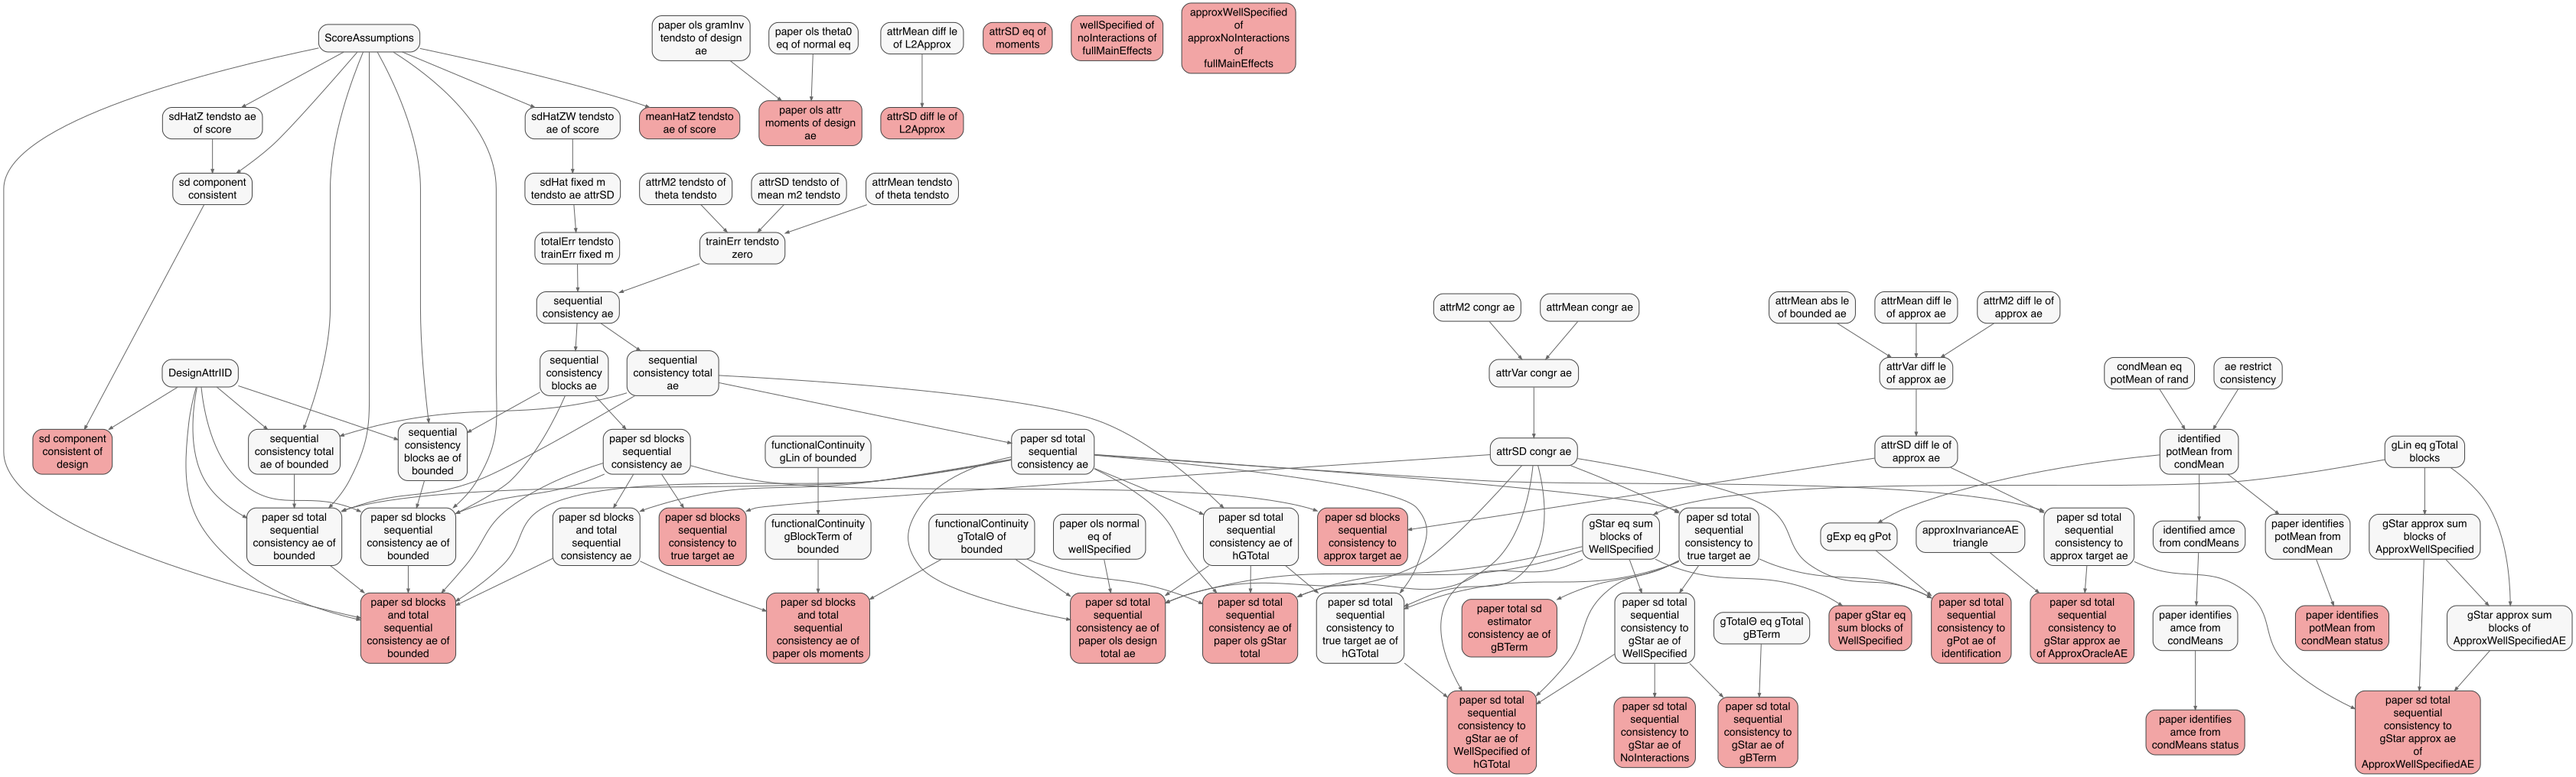
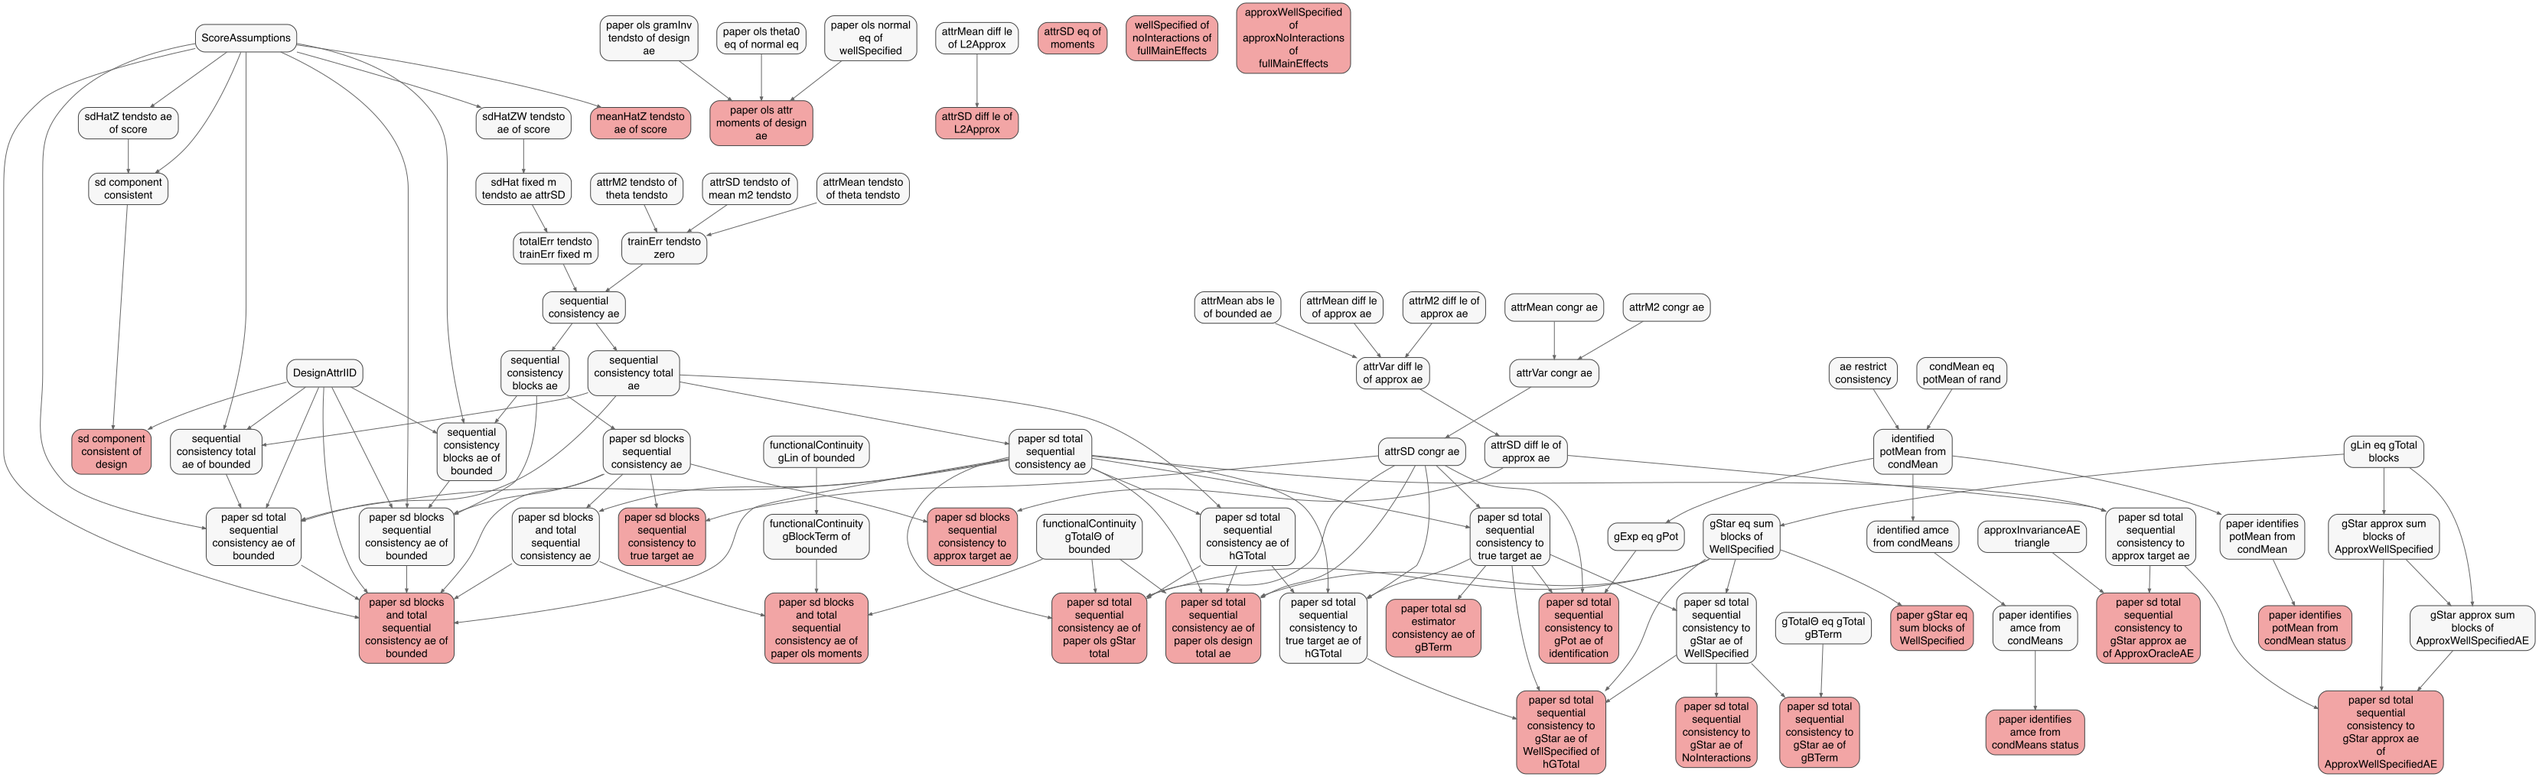
further removal of circular reasoning

diff --git a/readable/PaperOLSConsistency.md b/readable/PaperOLSConsistency.md
@@ -13,24 +13,24 @@ Assumption package:
 - `PaperOLSDesignAssumptions` packages design IID, bounded/measurable features, bounded `gStar`, and equality of design vs target Gram/cross moments. From this bundle:
   - `paper_ols_lln_of_design_ae` derives the LLN statement with limits expressed under the target `ν`.
   - `paper_ols_attr_moments_of_design_ae` combines that LLN with inverse‑Gram stability and identification to yield `OLSMomentAssumptionsOfAttr` a.e.
-- `PaperOLSFullRankAssumptions` and `PaperOLSNormalEqAssumptions` are the explicit full‑rank and normal‑equation premises that will feed the derivation of inverse‑Gram stability and identification (`hInv`/`hId`) from the design.
+- `PaperOLSFullRankAssumptions` is the explicit full‑rank premise that feeds the derivation of inverse‑Gram stability and identification (`hInv`/`hId`) from the design; the normal equations are now derived from well‑specification plus bounded/measurable features.
 - `paper_ols_gramInv_tendsto_of_design_ae` derives inverse‑Gram convergence a.e. from the design bundle plus `PaperOLSFullRankAssumptions`.
-- `paper_ols_theta0_eq_of_normal_eq` derives the identification equation `θ0 = (attrGram)⁻¹ * attrCross` from `PaperOLSNormalEqAssumptions` and full‑rank.
-- `paper_ols_normal_eq_of_wellSpecified` derives `PaperOLSNormalEqAssumptions` from well‑specification plus bounded/measurable paper features, so the normal equation can be a derived premise rather than a standalone assumption.
+- `paper_ols_theta0_eq_of_normal_eq` derives the identification equation `θ0 = (attrGram)⁻¹ * attrCross` from the normal‑equation identity and full‑rank.
+- `paper_ols_normal_eq_of_wellSpecified` derives the normal‑equation identity from well‑specification plus bounded/measurable paper features.
 - `paper_ols_attr_moments_of_lln_fullrank_ae` packages Gram/cross LLN, inverse‑Gram stability, and identifiability into the a.e. `OLSMomentAssumptionsOfAttr` statement used by later theorems.
 - In the Gram/cross convergence proofs, empirical means are now routed through `meanHatZ_tendsto_ae_of_score`, keeping the flow explicitly tied to `ScoreAssumptions` rather than standalone IID bundles.
 
 Main results:
 - `theta_tendsto_of_paper_ols_moments_ae` gives almost-everywhere [convergence](jargon_convergence.md) of the OLS coefficient estimates to `theta0`.
 - A non-AE version is provided for deterministic sequences.
-- `theta_tendsto_of_paper_ols_design_ae` derives the same convergence from `PaperOLSDesignAssumptions` plus the full‑rank and normal‑equation conditions (`PaperOLSFullRankAssumptions`, `PaperOLSNormalEqAssumptions`).
+- `theta_tendsto_of_paper_ols_design_ae` derives the same convergence from `PaperOLSDesignAssumptions` plus the full‑rank condition, with normal equations derived from well‑specification.
 - `attrMean_tendsto_of_paper_ols_gStar` / `attrM2_tendsto_of_paper_ols_gStar` combine OLS [convergence](jargon_convergence.md) with functional [continuity](jargon_continuity.md) to produce plug‑in mean/second‑moment convergence for the paper’s score.
 - `attrMean_tendsto_of_paper_ols_moments_ae` / `attrM2_tendsto_of_paper_ols_moments_ae` provide the same [bridge](jargon_bridge.md) a.e. when the OLS moment assumptions hold along sample paths.
-- `attrMean_tendsto_of_paper_ols_design_ae` / `attrM2_tendsto_of_paper_ols_design_ae` are the end‑to‑end a.e. bridges from the design‑side bundle plus full‑rank/normal‑equation conditions to plug‑in moment convergence.
+- `attrMean_tendsto_of_paper_ols_design_ae` / `attrM2_tendsto_of_paper_ols_design_ae` are the end‑to‑end a.e. bridges from the design‑side bundle plus full‑rank (and normal equations derived from well‑specification) to plug‑in moment convergence.
 - `gPaper_eq_gTotalΘ_blocks` identifies the paper score with the block-sum total score (for any `blk`), so the OLS path can feed into the block/total [standard deviation](jargon_standard_deviation.md) chain.
 - `functionalContinuity_gPaper_of_bounded` and `functionalContinuity_gTotalΘ_of_bounded` derive the required functional [continuity](jargon_continuity.md) for the paper score and total block score directly from bounded/measurable features.
 - `functionalContinuity_gBlockTerm_of_bounded` does the same for each block score, using a block-specific feature map and the same bounded/measurable feature hypotheses.
 - `attrMean_tendsto_of_paper_ols_gStar_total` / `attrM2_tendsto_of_paper_ols_gStar_total` and their a.e. counterparts lift the OLS assumptions from `gPaper` to the block-sum total score.
-- `paper_ols_attr_moments_of_lln_fullrank_ae` assembles the a.e. moment package from [LLN](jargon_lln.md)-style and inverse-stability assumptions plus the target human population normal equations.
+- `paper_ols_attr_moments_of_lln_fullrank_ae` assembles the a.e. moment package from [LLN](jargon_lln.md)-style and inverse-stability assumptions plus the target human population normal equations (derived from well‑specification when needed).
 
 This file is the link from [regression](jargon_regression.md) / [OLS](jargon_ols.md) [consistency](jargon_consistency.md) to the [plug-in](jargon_plug_in.md) moment assumptions used in the [standard deviation](jargon_standard_deviation.md) consistency proofs.

diff --git a/gaps.md b/gaps.md
@@ -50,12 +50,12 @@ Lean entrypoint: [ConjointSD.lean](ConjointSD.lean)
 10) Consistency of the OLS estimator is not derived; raw `Tendsto` for `olsThetaHat` and `FunctionalContinuityAssumptions` are still used as premises in paper-facing results
    - Current state: we can prove `Tendsto` for `olsThetaHat` **if** `OLSMomentAssumptionsOfAttr` is given (see `ConjointSD/PaperOLSConsistency.lean`). We have a design-side bundle (`PaperOLSDesignAssumptions`) plus lemmas
      `paper_ols_lln_of_design_ae`, `paper_ols_attr_moments_of_design_ae`,
-     and `theta_tendsto_of_paper_ols_design_ae`, which derive the LLN and OLS moment assumptions a.e. from bounded/measurable features, bounded `gStar`, and moment transport to `ν`. Inverse‑Gram stability and identification are now derived from the explicit full‑rank and normal‑equation assumptions (`PaperOLSFullRankAssumptions`, `PaperOLSNormalEqAssumptions`), but those assumptions themselves are still not derived from the design.
-   - New: `paper_ols_normal_eq_of_wellSpecified` derives `PaperOLSNormalEqAssumptions` from well‑specification plus bounded/measurable paper features, so the normal equations can now be treated as a derived premise once well‑specification is established.
+     and `theta_tendsto_of_paper_ols_design_ae`, which derive the LLN and OLS moment assumptions a.e. from bounded/measurable features, bounded `gStar`, moment transport to `ν`, and well‑specification. Inverse‑Gram stability and identification are now derived from the explicit full‑rank assumption (`PaperOLSFullRankAssumptions`) plus the derived normal equations, but those assumptions themselves are still not derived from the design.
+   - New: `paper_ols_normal_eq_of_wellSpecified` derives the normal‑equation identity from well‑specification plus bounded/measurable paper features, so normal equations are no longer assumed as a standalone bundle.
    - Completed refactor: `ThetaTendstoAssumptions` and `GEstimationAssumptions` were removed from paper-facing statements. Those theorems now take raw `Tendsto (olsThetaHat ...)` and `FunctionalContinuityAssumptions` directly, with plug‑in moment convergence derived as needed.
    - Remaining work:
      - Derive `Tendsto (olsThetaHat ...)` from `PaperOLSDesignAssumptions` without assuming `OLSMomentAssumptionsOfAttr` (i.e., close the LLN/Gram/cross‑moment path from the randomized design).
-     - Derive inverse‑Gram stability and identification (`hInv`, `hId`) from the design-side assumptions. We now derive `hInv` from `PaperOLSFullRankAssumptions` plus the Gram LLN and derive `hId` from `PaperOLSNormalEqAssumptions` plus full‑rank; the remaining gap is to justify those full‑rank/normal‑equation assumptions from the paper’s design.
+     - Derive inverse‑Gram stability and identification (`hInv`, `hId`) from the design-side assumptions. We now derive `hInv` from `PaperOLSFullRankAssumptions` plus the Gram LLN and derive `hId` from the normal‑equation identity plus full‑rank; the remaining gap is to justify full‑rank from the paper’s design.
      - Derive `FunctionalContinuityAssumptions` from the paper’s linear/additive model and bounded features (ties to gap 8), then remove it as a standalone premise in paper-facing results.
      - Re-run the documentation chain (`readable/*.md`, `proven_statements.md`, `Scratch.lean`) and refresh `dependency_tables.Rmd` / `dependency_tables.md` after those derivations.
    - Dependencies on other gaps:

diff --git a/readable/Assumptions.md b/readable/Assumptions.md
@@ -231,17 +231,6 @@ Reader mapping to standard OLS assumptions:
 - `OLSMomentAssumptions` / `OLSMomentAssumptionsOfAttr` correspond to LLN for
   the Gram matrix `X'X/n` and cross moments `X'Y/n`, plus invertibility/full‑rank
   of the limiting Gram, and identification via the normal equations.
-- `OLSConsistencyAssumptions` is simply the resulting conclusion (the coefficient
-  estimates converge to `θ0`), not a new domain‑specific assumption.
-
-- `OLSConsistencyAssumptions`: a single assumption that the
-  [OLS](jargon_ols.md) [estimator](jargon_estimator.md) sequence
-  [converges](jargon_convergence.md) to the target `θ0`. This is a
-  sample-sequence assumption about `ols.θhat` under the experimental design
-  distribution `μ`.
-  - `OLSConsistencyAssumptions.tendsto_theta`: convergence of the estimator sequence.
-    Intuition: the estimator settles at the true coefficient vector.
-    Formal: `Tendsto ols.θhat atTop (nhds θ0)`.
 - `OLSMomentAssumptions`: a deterministic moment-limit package. It posits limits
   for the inverse Gram matrix and cross-product vector and states that `θ0`
   solves the limiting normal equations. This is the generic,
@@ -314,10 +303,9 @@ Reader mapping to standard OLS assumptions:
     as a matrix in the ambient algebra. Intuition: the paper’s feature set has
     enough variation in the target [population](jargon_population.md).
     Formal: `IsUnit (attrGram (ν := ν) (φ := φPaper ...))`.
-- `PaperOLSNormalEqAssumptions`: a population normal‑equation identity tying
-  the Gram matrix and cross moments to the target coefficient vector `θ0`.
-  - `PaperOLSNormalEqAssumptions.normal_eq`: `attrGram * θ0 = attrCross`
-    under `ν`, with `attrCross` built from the causal estimand `gStar`.
+  The normal equations are now derived from
+  [well-specification](jargon_well_specified.md) and bounded/measurable paper
+  features in `ConjointSD/PaperOLSConsistency.lean`.
 
 ## EvaluationWeights
 - `EvalWeightMatchesAttrMoments`: evaluation-weight transport assumption. It

diff --git a/dependency_tables.md b/dependency_tables.md
@@ -1934,7 +1934,7 @@ fInter</td>
 <td style="text-align: left;">❌</td>
 </tr>
 <tr>
-<td style="text-align: left;">PaperOLSNormalEqAssumptions isProb</td>
+<td style="text-align: left;">PaperOLSFullRankAssumptions isProb</td>
 <td style="text-align: left;">4</td>
 <td style="text-align: left;">❌</td>
 <td style="text-align: left;">❌</td>
@@ -1943,9 +1943,9 @@ fInter</td>
 <td style="text-align: left;">❌</td>
 <td style="text-align: left;">❌</td>
 <td style="text-align: left;">❌</td>
+<td style="text-align: left;">✅</td>
+<td style="text-align: left;">✅</td>
 <td style="text-align: left;">❌</td>
-<td style="text-align: left;">✅</td>
-<td style="text-align: left;">✅</td>
 <td style="text-align: left;">❌</td>
 <td style="text-align: left;">❌</td>
 <td style="text-align: left;">❌</td>
@@ -2186,4 +2186,4 @@ fInter</td>
 
 ## Theorem dependency DAG
 
-<img src="dependency_tables_files/theorem_dependency_dag.png" width="3366" />
+<img src="dependency_tables_files/theorem_dependency_dag.png" width="3318" />

diff --git a/readable/RegressionEstimator.md b/readable/RegressionEstimator.md
@@ -21,6 +21,6 @@ Population versions:
  - `OLSMomentAssumptionsOfAttr.to_OLSMomentAssumptions` is a small adapter from target human population assumptions to the abstract limit form.
 
 Final [bridge](jargon_bridge.md):
-- `attrMean_tendsto_of_OLSConsistency` and `attrM2_tendsto_of_OLSConsistency` say that if an OLS sequence [converges](jargon_convergence.md) and the target human population functionals are [continuous](jargon_continuity.md), then the plug‑in [mean](jargon_mean.md) and [second moment](jargon_second_moment.md) converge.
+- `attrMean_tendsto_of_OLSConsistency` and `attrM2_tendsto_of_OLSConsistency` say that if an OLS sequence [converges](jargon_convergence.md) (via `Tendsto ols.θhat → θ0`) and the target human population functionals are [continuous](jargon_continuity.md), then the plug‑in [mean](jargon_mean.md) and [second moment](jargon_second_moment.md) converge.
 
 This file supplies the regression backbone used by the paper-level [consistency](jargon_consistency.md) results.

diff --git a/proven_statements.md b/proven_statements.md
@@ -553,13 +553,13 @@ Normal equations for the population OLS coefficients follow from
 File: `ConjointSD/PaperOLSConsistency.lean`
 
 Statement: Under the paper’s design-side bundle (`PaperOLSDesignAssumptions`),
-plus inverse‑Gram stability and identification, the OLS moment assumptions
+full‑rank, and well‑specification (so the normal equations hold), the OLS moment assumptions
 (`OLSMomentAssumptionsOfAttr`) hold almost everywhere for the paper’s
 term set and causal estimand `gStar`.
 
 Intuition: bounded/measurable features and a design‑IID attribute stream give the
 Gram/cross LLNs; transport of those moments to the target `ν` plus invertibility
-and normal‑equation identification complete the OLS moment package.
+and normal‑equation identification (derived from well‑specification) complete the OLS moment package.
 
 Formalization (Lean name): `paper_ols_attr_moments_of_design_ae`
 
